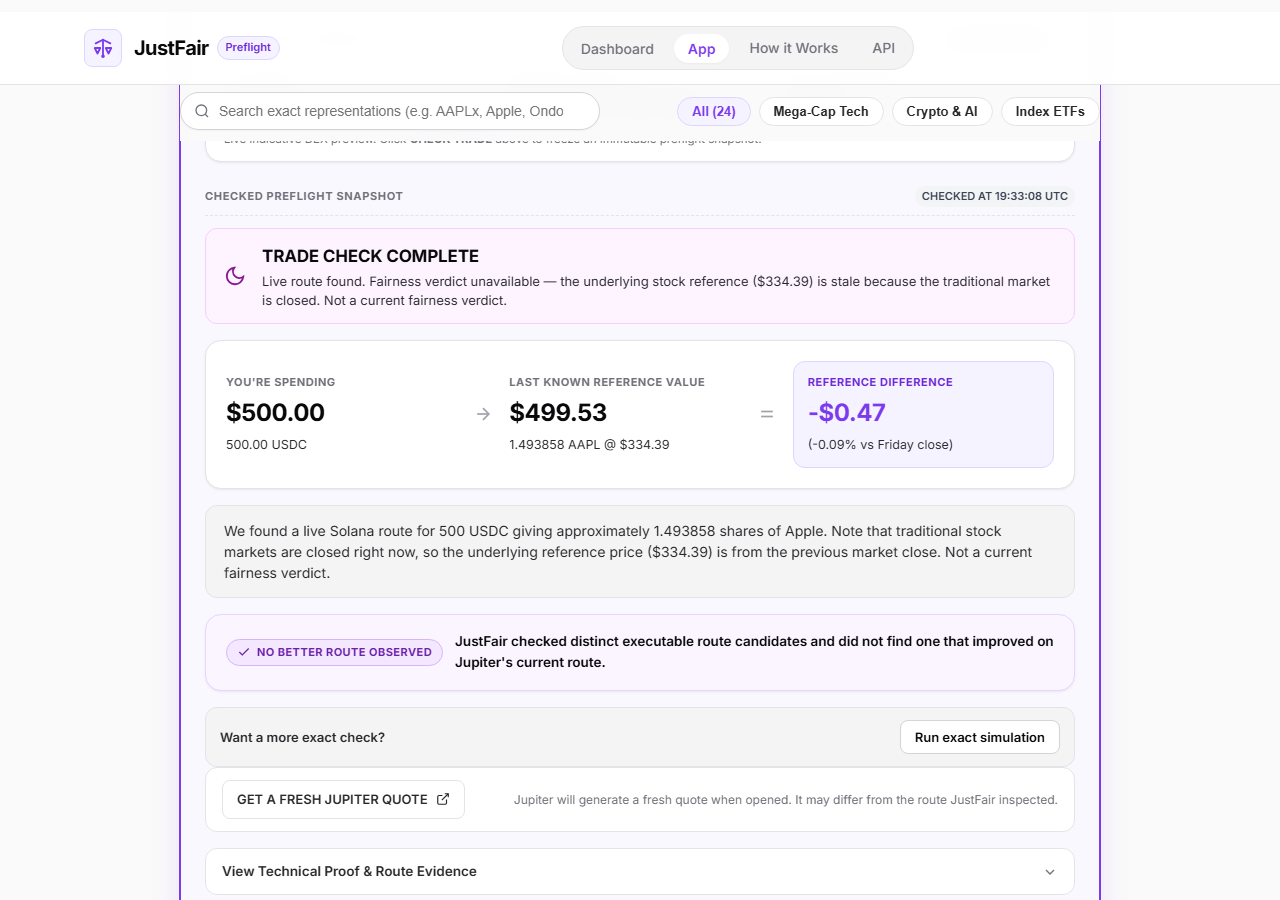
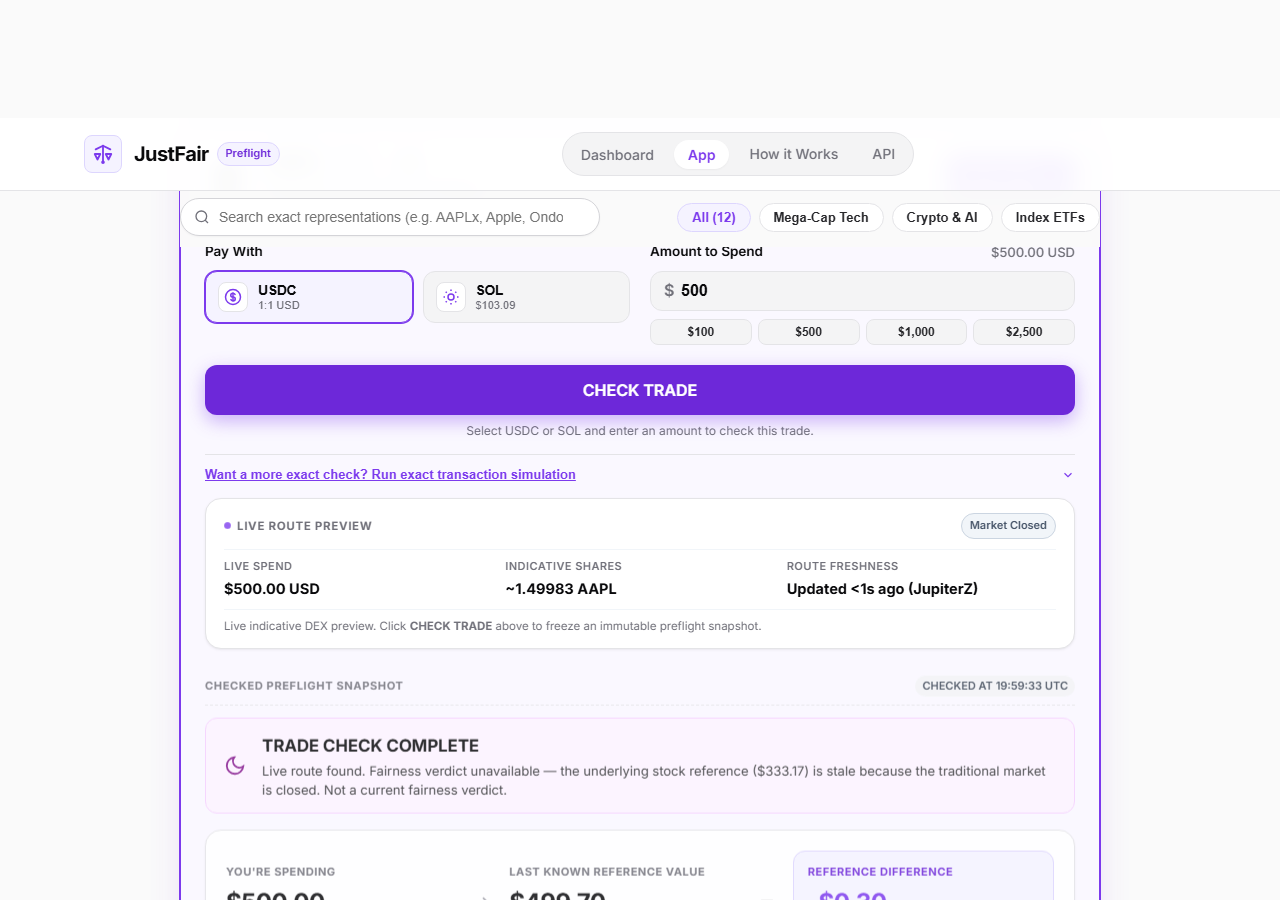
fix(step4): filter restored trade feed to execution-supported representations only (Director Order 013.10A)

diff --git a/test/browser.test.js b/test/browser.test.js
@@ -365,7 +365,7 @@ async function runBrowserTests() {
         verifiedLeak: /Product verified|Conditional product match|match all of your requirements|verification incomplete/i.test(document.getElementById("step-4-container")?.innerText || ""),
         trackerVisible: !document.querySelector(".preflight-step-tracker")?.classList.contains("hidden")
       }));
-      if (fresh.cards !== 24) throw new Error(`Step 4 feed must list 24 representations, found ${fresh.cards}`);
+      if (fresh.cards !== 12) throw new Error(`Step 4 feed must list 12 execution-supported cards, found ${fresh.cards}`);
       if (fresh.expanded !== 0) throw new Error("Step 4 must start with no card expanded");
       if (fresh.stripPresent || fresh.verifiedLeak) throw new Error("No handoff strip/badge may exist in Step 4");
       if (!fresh.trackerVisible) throw new Error("Step tracker must stay visible");
@@ -385,7 +385,7 @@ async function runBrowserTests() {
         cards: document.querySelectorAll("#stock-cards-container .stock-card-standalone").length
       }));
       if (preState.expanded !== 0) throw new Error("Direct Step 4 must start with no card expanded");
-      if (preState.cards !== 24) throw new Error(`Direct Step 4 feed must list 24 representations, found ${preState.cards}`);
+      if (preState.cards !== 12) throw new Error(`Direct Step 4 feed must list 12 execution-supported cards, found ${preState.cards}`);
 
       // Explicit in-feed selection: expand the exact AAPLx card.
       await page.click("#stock-card-AAPLx .stock-card-header");
@@ -886,7 +886,7 @@ async function runBrowserTests() {
       await page.screenshot({ path: path.join(EVIDENCE_DIR, "26_mismatch_to_fresh_step4.png") });
     });
 
-    await test("27. Step 4 AAPLon safety: unsupported truth, zero AAPLx substitution", async () => {
+    await test("27. Step 4 has no Ondo cards: AAPLon absent, no substitution", async () => {
       const lonePosts = [];
       const onReq = req => {
         if (req.method() === "POST" && req.url().endsWith("/api/v1/preflight")) lonePosts.push(req.postData());
@@ -894,43 +894,54 @@ async function runBrowserTests() {
       page.on("request", onReq);
       try {
         await page.click("#tracker-step-4");
-        await page.waitForSelector("#stock-card-AAPLon", { timeout: 15000 });
-        const rowText = await page.textContent("#stock-card-AAPLon");
-        if (!/not yet supported/i.test(rowText)) throw new Error(`AAPLon must state unsupported truth: ${rowText.slice(0, 200)}`);
-        const aaplonForm = await page.$("#stock-card-AAPLon .stock-trade-form");
-        if (aaplonForm) throw new Error("AAPLon must offer no trade form");
-        const detailsBtn = await page.$("#stock-card-AAPLon .unsupported-details-btn");
-        if (!detailsBtn) throw new Error("AAPLon must link to product details");
-        const before = lonePosts.length;
-        await page.waitForTimeout(2500); // any hidden polling would fire here
-        const aaplxPosts = lonePosts.slice(before).filter(p => (p || "").includes("AAPLx"));
-        if (aaplxPosts.length !== 0) throw new Error("Viewing AAPLon must cause zero AAPLx execution POSTs");
-        const expanded = await page.evaluate(() => document.querySelectorAll("#stock-cards-container .stock-card-standalone.is-expanded").length);
-        if (expanded !== 0) throw new Error("Viewing AAPLon must not expand any card");
-        // Details path leads into Product Preflight without substitution.
-        await detailsBtn.click();
-        await page.waitForSelector("#step-2-container:not(.hidden)", { timeout: 15000 });
-        const selUnd = await page.evaluate(() => window.appState?.selectedUnderlying);
-        if (selUnd !== "AAPL") throw new Error(`Product details must open Apple, got ${selUnd}`);
-        await page.screenshot({ path: path.join(EVIDENCE_DIR, "27_step4_aaplon_truth.png") });
+        await page.waitForSelector("#stock-cards-container .stock-card-standalone", { timeout: 15000 });
+        // AAPLon must not exist anywhere in the execution feed.
+        if (await page.$("#stock-card-AAPLon")) {
+          throw new Error("AAPLon must be absent from the Step-4 execution feed");
+        }
+        const counts = await page.evaluate(() => ({
+          total: document.querySelectorAll("#stock-cards-container .stock-card-standalone").length,
+          forms: document.querySelectorAll("#stock-cards-container .stock-trade-form").length,
+          allPill: document.querySelector('.trade-category-pill[data-category="ALL"]')?.textContent || ""
+        }));
+        if (counts.total !== 12) throw new Error(`Expected 12 execution cards, found ${counts.total}`);
+        if (counts.forms !== 12) throw new Error(`Expected 12 trade forms, found ${counts.forms}`);
+        if (!counts.allPill.includes("12")) throw new Error(`All pill must read All (12), got: ${counts.allPill}`);
+        // Searching AAPLon must yield zero results and substitute nothing.
+        await page.fill("#trade-search-input", "AAPLon");
+        await page.waitForTimeout(300);
+        const afterSearch = await page.evaluate(() => ({
+          visible: document.querySelectorAll("#stock-cards-container .stock-card-standalone:not(.hidden)").length,
+          aaplxVisible: document.querySelectorAll("#stock-card-AAPLx:not(.hidden)").length,
+          emptyShown: !document.getElementById("trade-search-empty-state")?.classList.contains("hidden")
+        }));
+        if (afterSearch.visible !== 0) throw new Error("Search AAPLon must yield zero Step-4 results");
+        if (afterSearch.aaplxVisible !== 0) throw new Error("Search AAPLon must not substitute AAPLx");
+        if (!afterSearch.emptyShown) throw new Error("Empty state must appear on zero matches");
+        const aaplxPosts = lonePosts.filter(p => (p || "").includes("AAPLon") || (p || "").includes('"stock":"AAPLx"'));
+        if (aaplxPosts.length !== 0) throw new Error("AAPLon search must cause zero execution POSTs");
+        await page.click("#trade-clear-search-btn");
+        await page.waitForTimeout(300);
+        await page.screenshot({ path: path.join(EVIDENCE_DIR, "27_step4_no_ondo_cards.png") });
       } finally {
         page.off("request", onReq);
       }
     });
 
-    // 30. Trade feed search (013.10 §6/§20): company, symbol, issuer filtering
-    await test("30. Trade Search filters exact representations without touching Step 1", async () => {
+    // 30. Trade feed search (013.10A §6): supported-only feed truth
+    await test("30. Trade Search searches the supported feed only, no substitution", async () => {
       await page.click("#tracker-step-4");
       await page.waitForSelector("#stock-cards-container .stock-card-standalone", { timeout: 15000 });
 
-      await page.fill("#trade-search-input", "ondo");
+      await page.fill("#trade-search-input", "apple");
       await page.waitForTimeout(300);
-      const ondoVisible = await page.evaluate(() => ({
-        xCards: document.querySelectorAll("#stock-card-AAPLx:not(.hidden)").length,
-        onCards: document.querySelectorAll("#stock-card-AAPLon:not(.hidden)").length
+      const appleVisible = await page.evaluate(() => ({
+        aaplx: document.querySelectorAll("#stock-card-AAPLx:not(.hidden)").length,
+        total: document.querySelectorAll("#stock-cards-container .stock-card-standalone:not(.hidden)").length
       }));
-      if (ondoVisible.xCards !== 0) throw new Error("Search 'ondo' must hide xStocks cards");
-      if (ondoVisible.onCards !== 1) throw new Error("Search 'ondo' must show Ondo cards");
+      if (appleVisible.aaplx !== 1 || appleVisible.total !== 1) {
+        throw new Error(`Search Apple must show only AAPLx, got ${JSON.stringify(appleVisible)}`);
+      }
 
       await page.fill("#trade-search-input", "aaplx");
       await page.waitForTimeout(300);
@@ -942,10 +953,27 @@ async function runBrowserTests() {
         throw new Error(`Symbol search must isolate AAPLx, got ${JSON.stringify(symVisible)}`);
       }
 
+      await page.fill("#trade-search-input", "ondo");
+      await page.waitForTimeout(300);
+      const ondoVisible = await page.evaluate(() => document.querySelectorAll("#stock-cards-container .stock-card-standalone:not(.hidden)").length);
+      if (ondoVisible !== 0) throw new Error(`Search Ondo must yield zero Step-4 results, got ${ondoVisible}`);
+      const emptyOndo = await page.isVisible("#trade-search-empty-state");
+      if (!emptyOndo) throw new Error("Empty state must appear for Ondo search");
+
+      await page.fill("#trade-search-input", "AAPLon");
+      await page.waitForTimeout(300);
+      const aaplonVisible = await page.evaluate(() => ({
+        total: document.querySelectorAll("#stock-cards-container .stock-card-standalone:not(.hidden)").length,
+        aaplx: document.querySelectorAll("#stock-card-AAPLx:not(.hidden)").length
+      }));
+      if (aaplonVisible.total !== 0 || aaplonVisible.aaplx !== 0) {
+        throw new Error(`Search AAPLon must yield zero results with no AAPLx substitution, got ${JSON.stringify(aaplonVisible)}`);
+      }
+
       await page.click("#trade-clear-search-btn");
       await page.waitForTimeout(300);
       const restored = await page.evaluate(() => document.querySelectorAll("#stock-cards-container .stock-card-standalone:not(.hidden)").length);
-      if (restored !== 24) throw new Error(`Clearing search must restore 24 cards, got ${restored}`);
+      if (restored !== 12) throw new Error(`Clearing search must restore 12 cards, got ${restored}`);
 
       await page.fill("#trade-search-input", "zzz-no-match");
       await page.waitForTimeout(300);

diff --git a/public/app.js b/public/app.js
@@ -1788,18 +1788,17 @@ function renderAllStockCards(initiallyExpandedSymbol = null) {
   if (!stockCardsContainer) return;
   stockCardsContainer.innerHTML = "";
 
-  // One card per exact representation in underlying order (xStocks trade
-  // card, then its Ondo counterpart). Only xStocks cards expand into the
-  // trade form; Ondo cards truthfully state unsupported execution.
-  Object.keys(UNDERLYING_CATALOG).forEach(canonical => {
-    const data = UNDERLYING_CATALOG[canonical];
-    data.representations.forEach(symbol => {
-      if (STOCK_META[symbol]) {
-        renderTradeCard(symbol, symbol === initiallyExpandedSymbol);
-      } else {
-        renderUnsupportedCard(symbol, data);
-      }
-    });
+  // Execution-supported catalog only (013.10A): STOCK_META is the frontend
+  // execution registry — every member has Execution Preflight = SUPPORTED.
+  // Execution-unsupported representations (e.g. Ondo) belong to Product
+  // Preflight (Steps 1-3), never to this feed. Capability filter, not a
+  // recommendation; no substitution.
+  const symbols = Object.keys(STOCK_META);
+  const allPill = document.querySelector('.trade-category-pill[data-category="ALL"]');
+  if (allPill) allPill.textContent = `All (${symbols.length})`;
+
+  symbols.forEach(symbol => {
+    renderTradeCard(symbol, symbol === initiallyExpandedSymbol);
   });
 }
 
@@ -1858,51 +1857,6 @@ function renderTradeCard(symbol, isExpanded) {
     setupCardInteractivity(cardEl, symbol);
 }
 
-// Static counterpart card for execution-unsupported representations.
-// Same visual system, no trade form, no substitution, honest state.
-function renderUnsupportedCard(symbol, underlyingData) {
-  const cardEl = document.createElement("div");
-  cardEl.className = "stock-card-standalone stock-card-unsupported is-revealed";
-  cardEl.id = `stock-card-${symbol}`;
-  cardEl.setAttribute("data-symbol", symbol);
-  cardEl.setAttribute("data-category", underlyingData.category);
-  cardEl.setAttribute("data-keywords", `${underlyingData.name} ${underlyingData.canonical} ${underlyingData.fullName} ${symbol} ondo unsupported`.toLowerCase());
-
-  cardEl.innerHTML = `
-    <div class="stock-card-header stock-header-static" aria-expanded="false">
-      <div class="stock-card-brand">
-        <div class="stock-logo-wrap">
-          <img src="${underlyingData.logo}" alt="${underlyingData.name} logo" class="stock-logo-img" loading="lazy">
-        </div>
-        <div class="stock-brand-info">
-          <div class="stock-title-row">
-            <h3 class="stock-name">${underlyingData.name}</h3>
-            <span class="stock-ticker-badge">${symbol}</span>
-            <span class="stock-canonical-pill">${underlyingData.canonical}</span>
-          </div>
-          <p class="stock-desc">Tokenized ${underlyingData.name} equity on Solana · Ondo</p>
-        </div>
-      </div>
-      <div class="stock-header-action">
-        <span class="unsupported-pill">Trade Check not yet supported</span>
-      </div>
-    </div>
-
-    <div class="stock-card-body" id="stock-body-${symbol}">
-      <p class="unsupported-desc">Ondo Global Markets (BVI) Limited · Token-2022 Verified on Solana</p>
-      <p class="quick-rep-note">Trade Check not yet supported for this representation. Product verification is a separate step.</p>
-      <button type="button" class="btn-link unsupported-details-btn" data-underlying="${underlyingData.canonical}">Check product details</button>
-    </div>
-  `;
-
-  stockCardsContainer.appendChild(cardEl);
-  const detailsBtn = cardEl.querySelector(".unsupported-details-btn");
-  if (detailsBtn) {
-    detailsBtn.addEventListener("click", () => {
-      selectUnderlying(detailsBtn.getAttribute("data-underlying"));
-    });
-  }
-}
 
 function renderCardBodyMarkup(symbol) {
   const stock = STOCK_META[symbol] || { name: symbol, canonical: symbol, mint: "", fullName: symbol };

diff --git a/public/index.html b/public/index.html
@@ -796,7 +796,7 @@
                 <button type="button" id="trade-clear-search-btn" class="clear-search-btn hidden" aria-label="Clear search">✕</button>
               </div>
               <div class="category-filter-pills" role="radiogroup" aria-label="Filter representations by category">
-                <button type="button" class="trade-category-pill active" data-category="ALL" role="radio" aria-checked="true">All (24)</button>
+                <button type="button" class="trade-category-pill active" data-category="ALL" role="radio" aria-checked="true">All (12)</button>
                 <button type="button" class="trade-category-pill" data-category="Mega-Cap Tech" role="radio" aria-checked="false">Mega-Cap Tech</button>
                 <button type="button" class="trade-category-pill" data-category="Crypto &amp; AI" role="radio" aria-checked="false">Crypto &amp; AI</button>
                 <button type="button" class="trade-category-pill" data-category="Index ETFs" role="radio" aria-checked="false">Index ETFs</button>

diff --git a/public/styles.css b/public/styles.css
@@ -3866,34 +3866,6 @@ body {
   color: var(--text-muted);
 }
 
-/* Unsupported execution counterpart card inside the Step 4 feed.
-   Same visual system as trade cards; static, honest, no substitution. */
-.stock-card-header.stock-header-static {
-  cursor: default;
-}
-
-.unsupported-pill {
-  font-size: 12px;
-  font-weight: 700;
-  color: var(--text-muted);
-  background: var(--bg-card-subtle);
-  border: 1px solid var(--border-light);
-  padding: 6px 12px;
-  border-radius: var(--radius-full);
-  white-space: nowrap;
-}
-
-.unsupported-desc {
-  font-size: 13px;
-  color: var(--text-secondary);
-  margin-bottom: 6px;
-}
-
-.quick-rep-note {
-  font-size: 12px;
-  color: var(--text-muted);
-}
-
 /* ========================================== */
 /* Why JustFair 3 Pillars Grid                */
 /* ========================================== */
